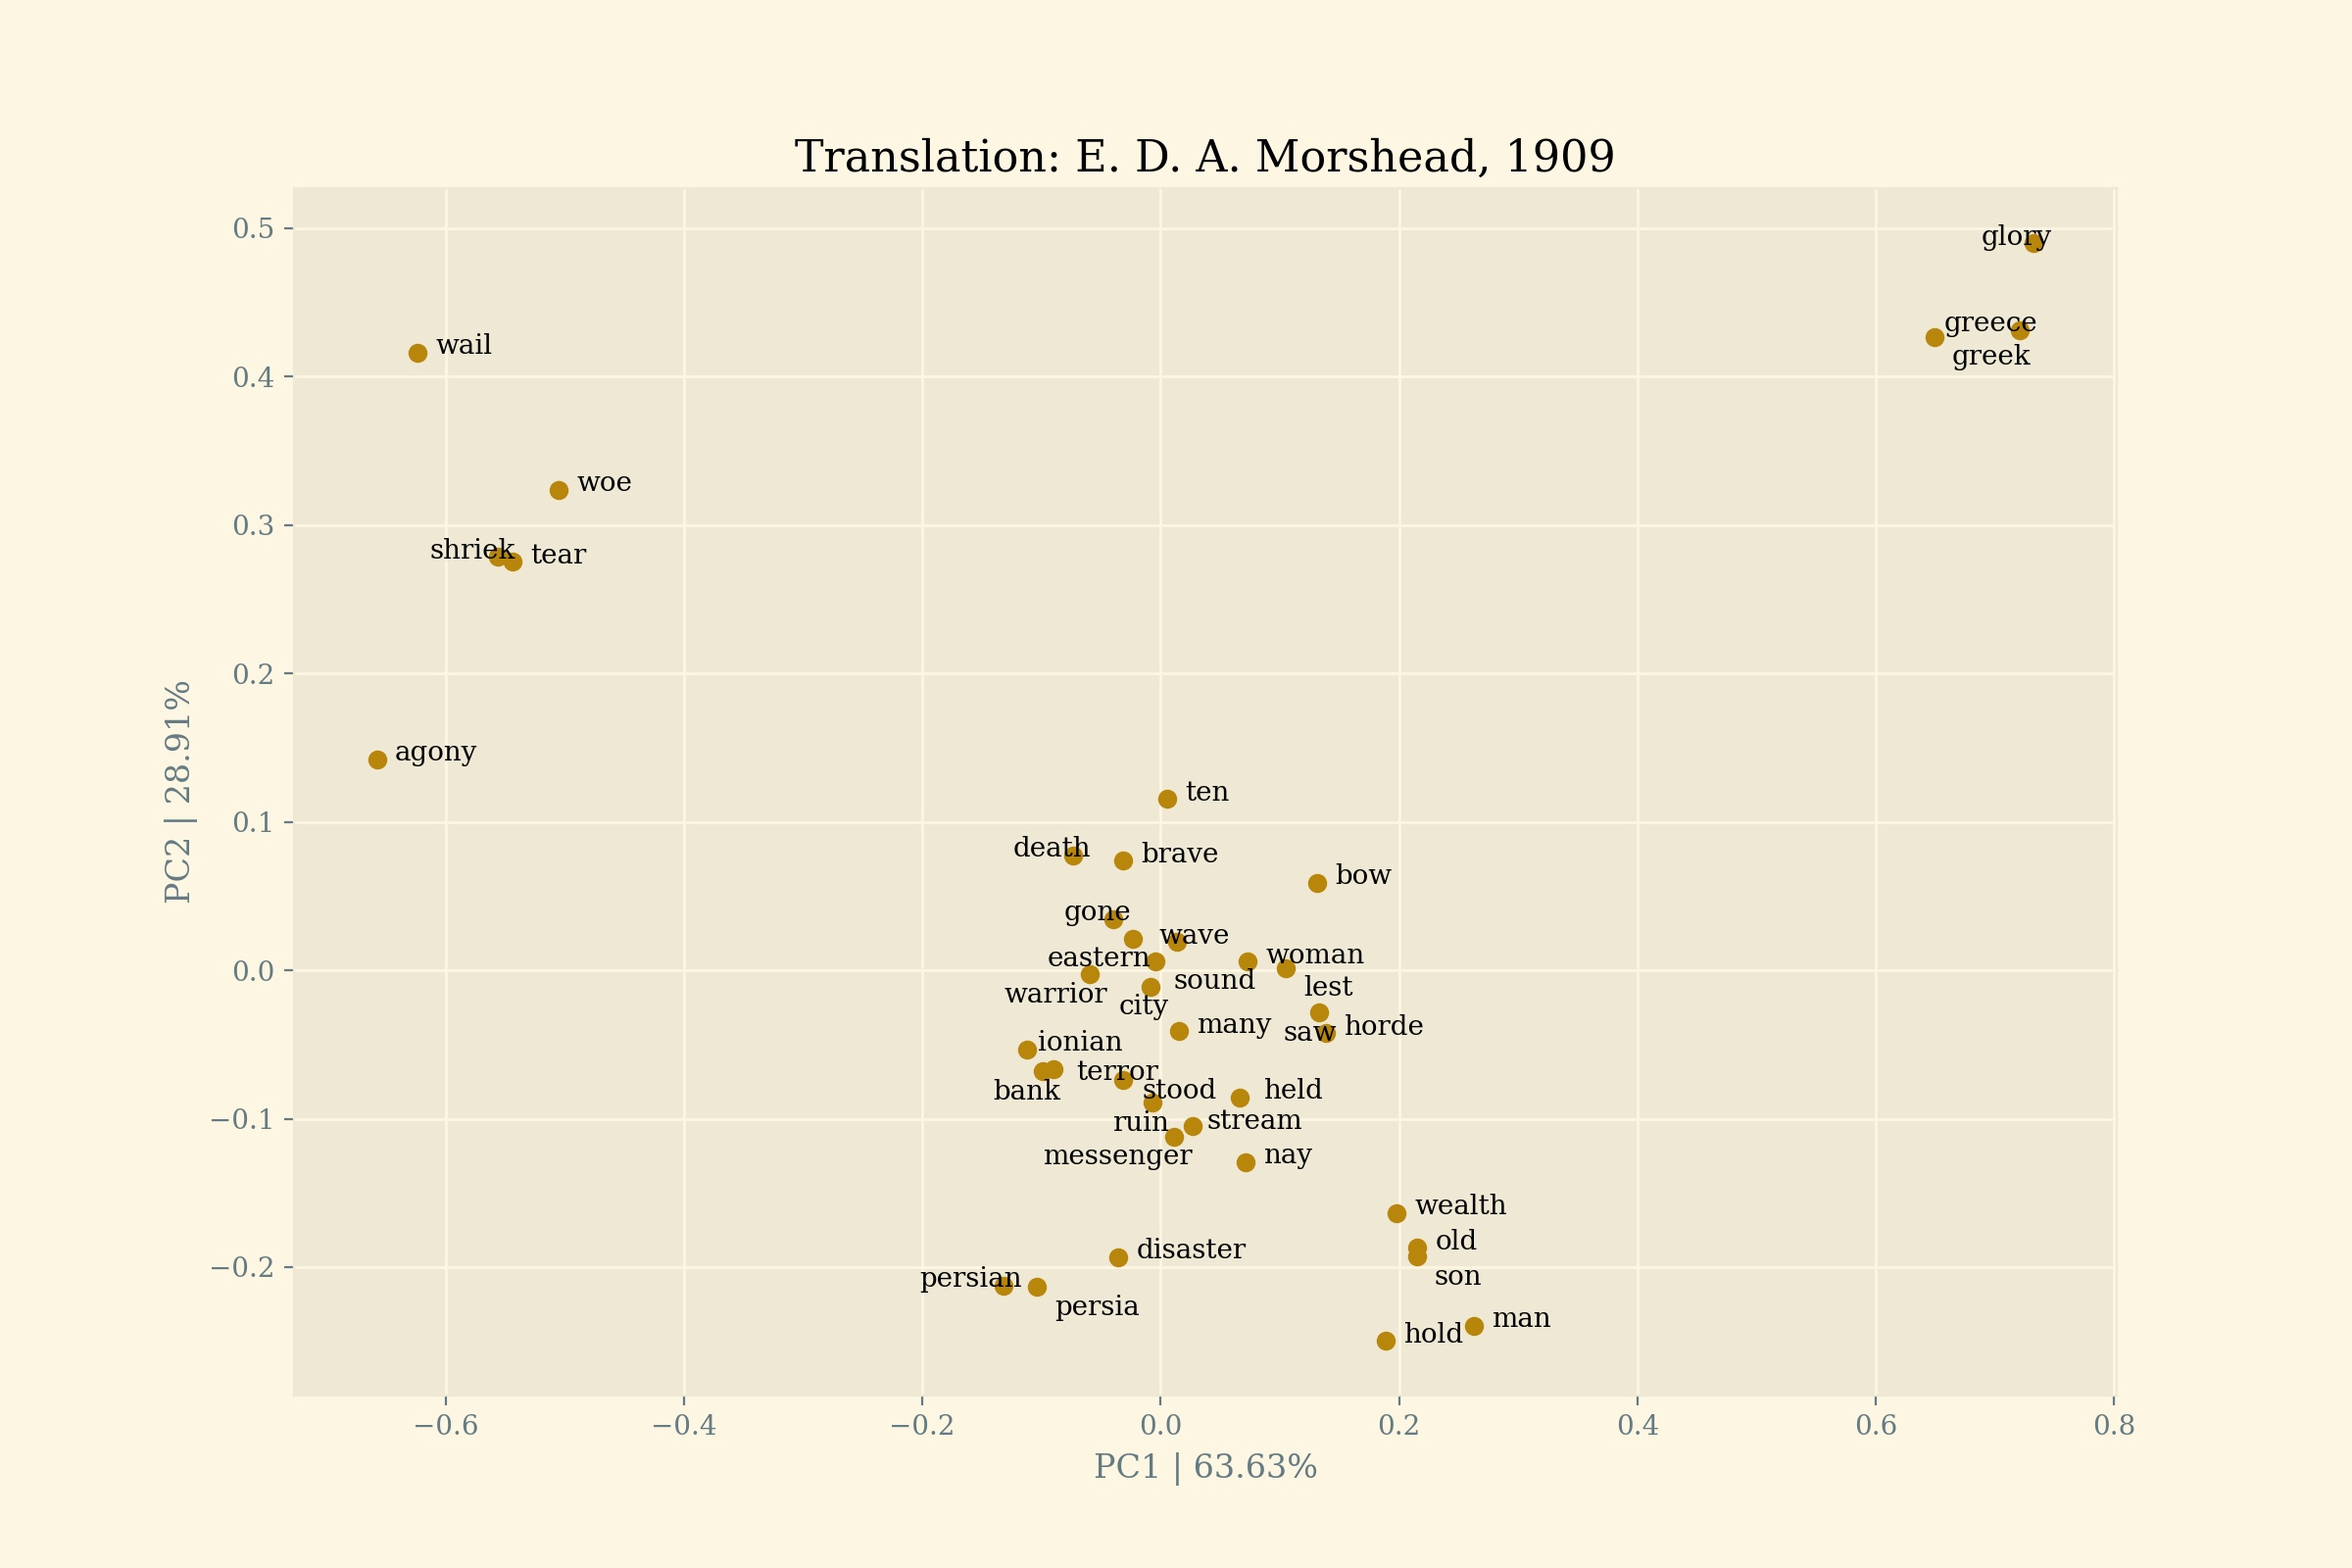
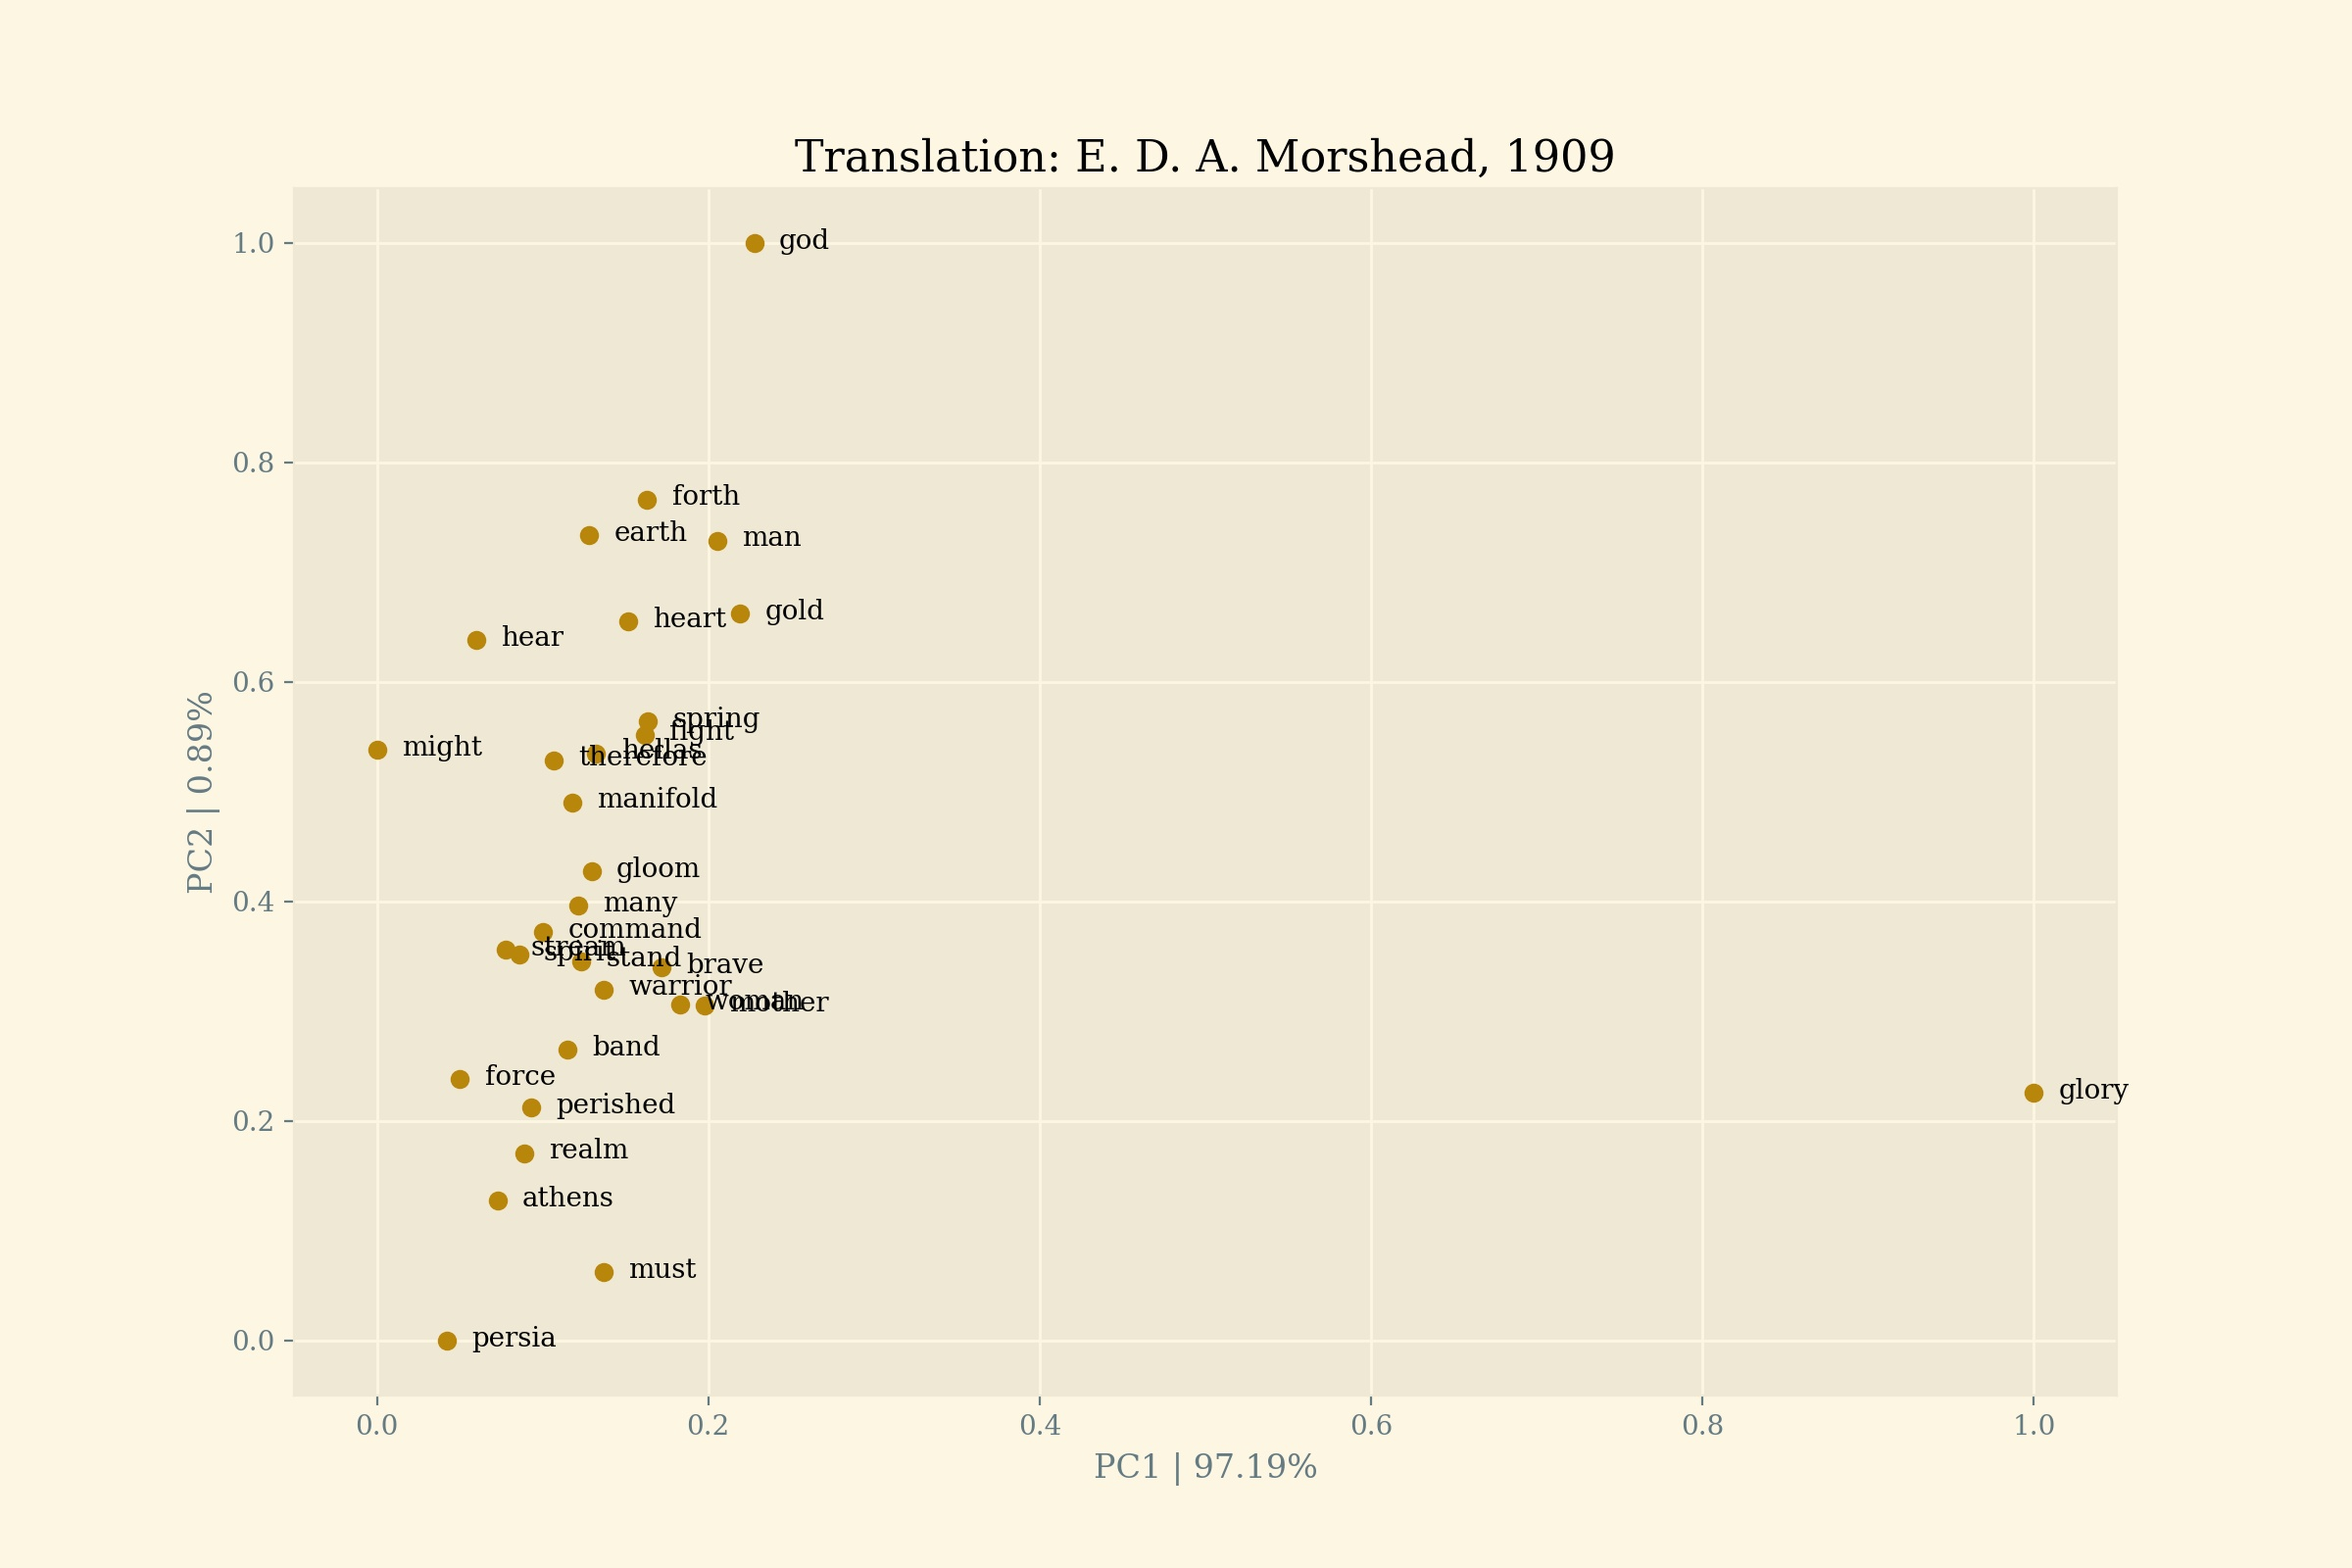
updated settings; added tables

diff --git a/core/graph.py b/core/graph.py
@@ -3,6 +3,8 @@ from adjustText import adjust_text
 import matplotlib.pyplot as plt
 import matplotlib.animation as animation
 import numpy as np
+import dataframe_image as dfi
+import pandas as pd 
 
 def wordcloud(t: Translation, stopwords: List[str], save_path: str) -> None:
     plt.figure()
@@ -27,12 +29,15 @@ def scatter_embeddings(t: Translation, words: List[str], pcs, explained_variance
         plt.title(f"Translation: {t.get_info()}") 
         plt.savefig(save_path, dpi=200)
 
-def tabulate_embeddings(embeddings: dict, file: str):
-    with open(file, "w") as f:
-        f.write('\\begin{table}[ht]\n\\caption{Resolved issues}\n\\centering\n')
-        f.write('\\begin{tabular}{@{}c c@{}}\n\t\\toprule\n\t{\\bfseries Issue-Id} & {\\bfseries Summary} \\\\\n\t\\midrule\n\t')
-        f.write("\\\\ \n\t".join(["{} & {}".format(_k, ", ".join(_v)) for _k, _v in sorted(embeddings.items())]))
-        f.write('\\\\\n\t\\bottomrule\n\\end{tabular}\n\\label{table:nonlin}\n\\end{table}')
+def tabulate_embeddings(embeddings: dict, file_path: str):
+    table = pd.DataFrame.from_dict(embeddings)
+    table.style.hide_index()
+    table.style.set_properties(**{
+        'background-color': 'black',                                                   
+        'color': 'black',                       
+        'border-color': 'tan'
+    })
+    dfi.export(table, file_path)
 
 def animate_embeddings(embedding_info, save_path: str) -> None:
     with plt.style.context('Solarize_Light2'):

diff --git a/core/settings.py b/core/settings.py
@@ -15,11 +15,12 @@ replacements = [
     ("men", "man"),
     ("women", "woman"),
     ("lady", "woman"),
-    ("greatest", "great")
-    # ("greece", "hellas"),
-    # ("greeks", "hellene"),
-    # ("greek", "hellene"),
-    # ("persians", "persian"),
+    ("greatest", "great"),
+    ("greece", "hellas"),
+    ("greeks", "hellas"),
+    ("greek", "hellas"),
+    ("persians", "persia"),
+    ("persian", "persia")
     # ("helvetian", "helvetii"),
     # ("aeduan", "aedui"),
     # ("roman", "rome"),
@@ -31,7 +32,7 @@ replacements = [
 TOPN = 4
 
 embeddings_kwargs = {
-    "vector_size": 100,
+    "vector_size": 64,
     "window": 10,
     "min_count": 5,
     "sample": 1e-2,
@@ -40,13 +41,11 @@ embeddings_kwargs = {
 
 key_words = {
     'Persai': [
-        'greece',
-        'greek',
+        'hellas',
         'persia', 
-        'persian', 
         'man', 
         'woman', 
-        'woe', 
+        'god', 
         'brave',
         'glory'
     ],
@@ -81,15 +80,13 @@ key_words = {
     'Beowulf': [
         'battle',
         'warrior',
-        'hall',
         'king',
         'beowulf',
         'war',
         'man',
+        'woman',
         'sword',
         'grendel',
-        'treasure',
-        'lord',
         'hero',
         'good',
         'evil'

diff --git a/core/analysis.py b/core/analysis.py
@@ -22,6 +22,14 @@ def sentiment_by_section(text: List[str]) -> List[float]:
         scores[i] = sentiment_score(section)
     return scores
 
+def normalize2D(xs: List[float], ys: List[float]):
+    norm = np.zeros( (len(xs), 2) )
+    for i, (x, y) in enumerate(zip(xs, ys)):
+        x = (x - min(xs)) / (max(xs) - min(xs))
+        y = (y - min(ys)) / (max(ys) - min(ys))
+        norm[i] = np.array([x, y])
+    return norm
+
 def sentiment_by_interval(text: List[str], divisor: int) -> List[float]:
     interval = len(text) // divisor
     if len(text) % divisor != 0: interval += 1
@@ -65,11 +73,6 @@ def preprocess_text(text: List[str], stopwords = [], lemmatize: bool = True, rep
     return processed_text
 
 def analyze_embeddings(text: list, key_words: List[str], kwargs: dict):
-    embedding_size = 64
-    window_size = 40
-    min_word = 5
-    down_sampling = 1e-2
-
     model = FastText(
         text,
         vector_size = kwargs["vector_size"],
